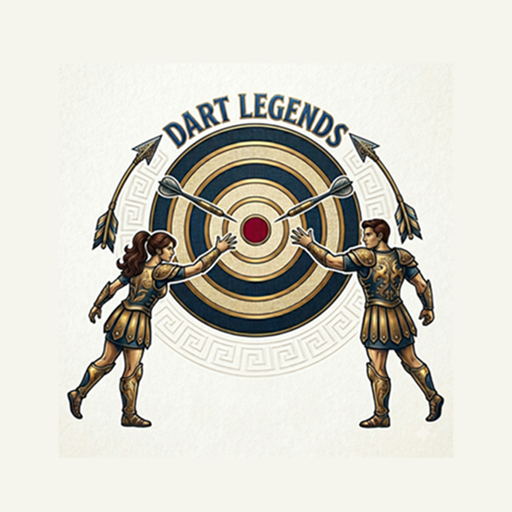
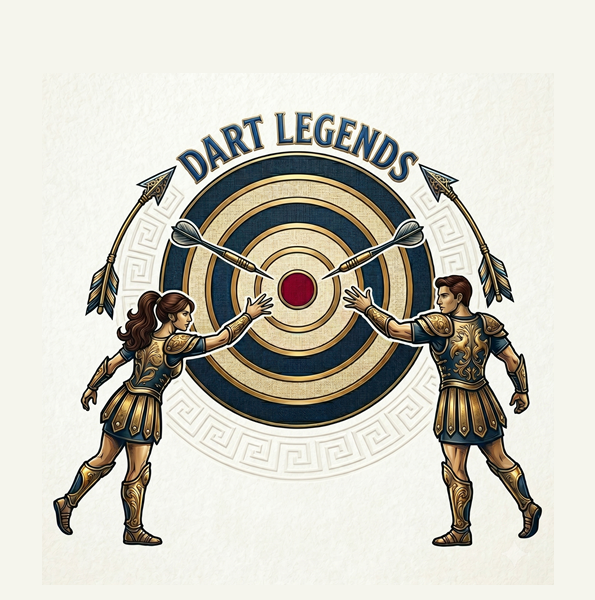
taille baniere

Changed region(s): [[0.0938, 0.1562, 0.9375, 0.9375]]

diff --git a/css/style.css b/css/style.css
@@ -253,6 +253,18 @@ input:focus, select:focus {
   box-shadow: 0 2px 6px rgba(0,0,0,0.08);
 }
 
+.app-banner{
+  width: 85%;
+  max-width: 420px;
+  height: auto;
+  display: block;
+  margin: 10px auto 18px auto;
+  border-radius: 16px;
+  border: 1px solid rgba(242,214,179,0.12);
+  box-shadow: 0 16px 40px rgba(0,0,0,0.35);
+}
+
+
 /* ================== JEU / LIGNES DU TABLEAU ================== */
 tr.active-row { background: rgba(15, 76, 129, 0.06); }
 #cricketGridTable th { color: var(--primary); font-weight: 700; }
@@ -280,4 +292,67 @@ tr.active-row { background: rgba(15, 76, 129, 0.06); }
   width: min(400px, calc(100% - 24px)); background: #1C1E21; color: #FFFFFF;
   padding: 12px 16px; border-radius: 12px; font-weight: 600; font-size: 14px;
   text-align: center; display: none; z-index: 2000; box-shadow: 0 8px 32px rgba(0,0,0,0.2);
+}
+
+/* === HOME TOPBAR : bannière à gauche, settings à droite === */
+.home-topbar{
+  align-items:center;
+}
+
+.banner-inline{
+  width: auto;
+  max-width: calc(100% - 60px);
+  height: 44px;           /* même hauteur que le bouton */
+  object-fit: contain;
+  margin: 0;              /* annule le centrage auto */
+  border-radius: 12px;
+}
+
+/* BANNIÈRE: 2 comportements */
+#onboardingScreen .app-banner{
+  width: 100%;
+  max-width: 420px;
+  height: auto;
+  margin: 10px auto 18px;
+}
+
+#homeScreen .topbar.home-topbar{
+  align-items:center;
+  gap: 12px;
+}
+
+#homeScreen .topbar .app-banner.banner-inline{
+  width: auto !important;
+  height: 46px !important;
+  max-width: calc(100% - 56px) !important; /* laisse la place au bouton */
+  margin: 0 !important;
+  object-fit: contain;
+  border-radius: 12px;
+}
+
+/* === HOME TOPBAR : bannière grande à gauche, bouton à droite === */
+#homeScreen .topbar.home-topbar{
+  align-items:center;
+  gap: 12px;
+}
+
+/* IMPORTANT : empêcher l'image d'être compressée par flex */
+#homeScreen .topbar.home-topbar .app-banner.banner-inline{
+  flex: 1 1 auto;
+  min-width: 0;
+  flex-shrink: 0;
+
+  height: 64px !important;       /* <-- plus grand */
+  width: auto !important;
+  max-width: calc(100% - 56px) !important;
+  margin: 0 !important;
+  object-fit: contain;
+  border-radius: 12px;
+}
+
+/* sur petits écrans, un poil plus petit */
+@media (max-width: 420px){
+  #homeScreen .topbar.home-topbar .app-banner.banner-inline{
+    height: 56px !important;
+  }
 }